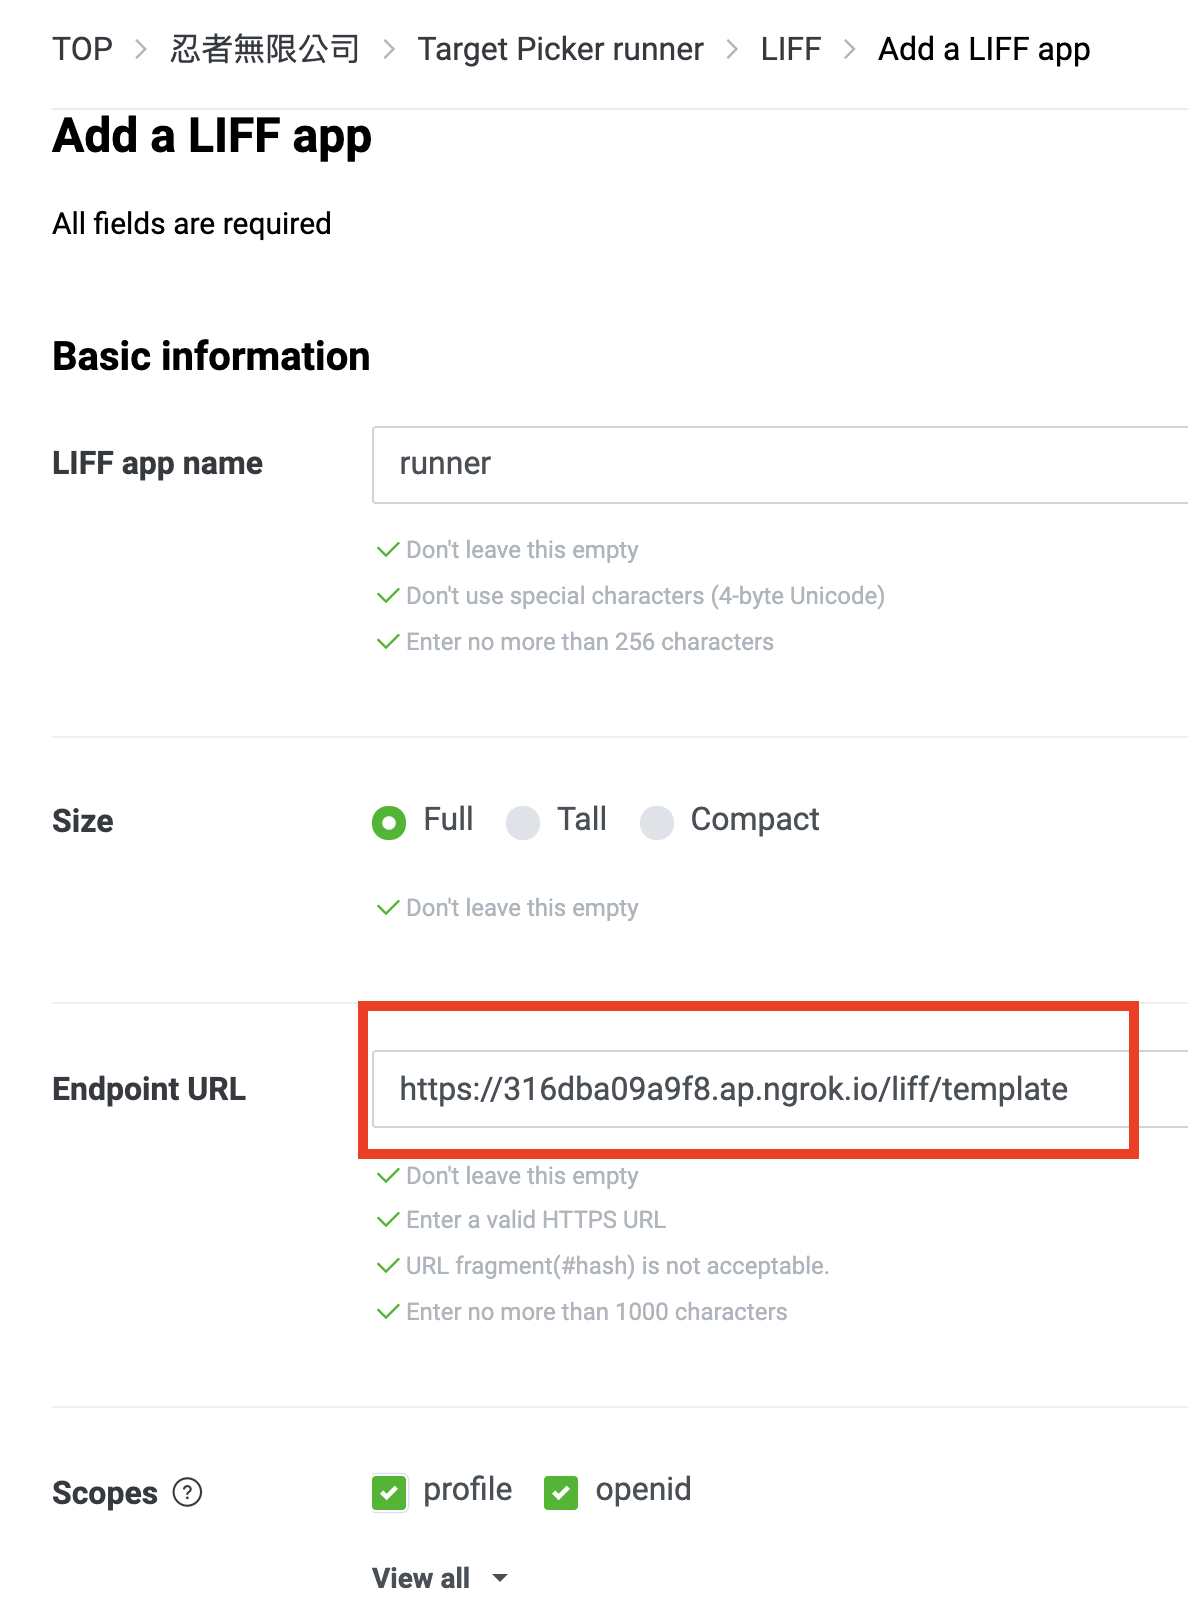
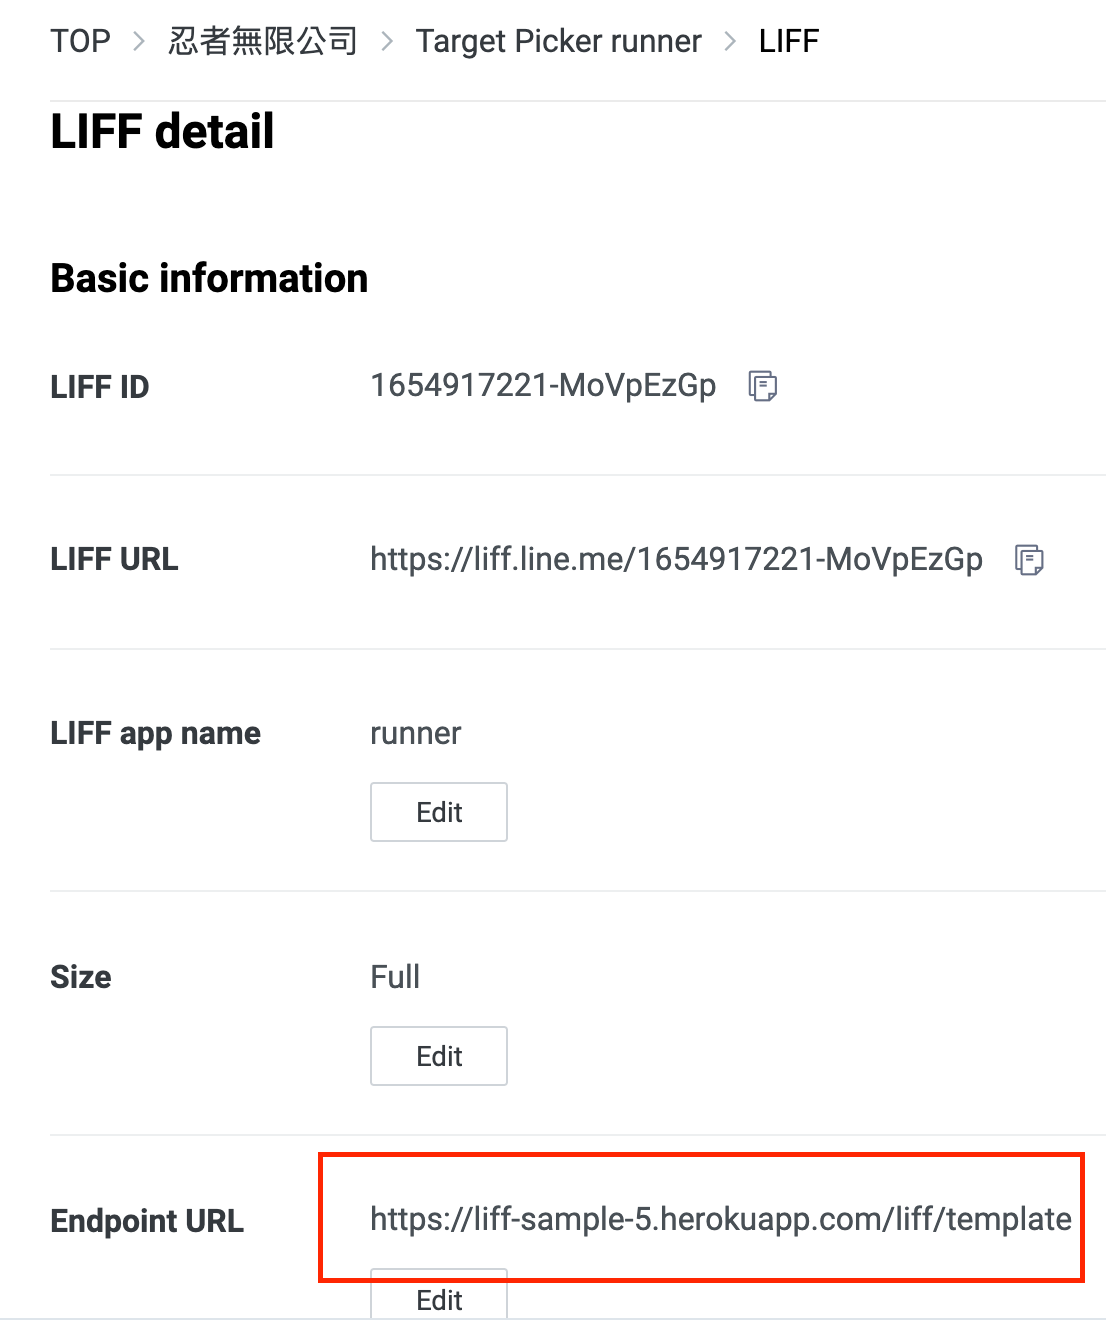
deploy

diff --git a/source/_posts/how-to-use-liff-in-vue3.md b/source/_posts/how-to-use-liff-in-vue3.md
@@ -229,35 +229,25 @@ app.listen(port);
 console.log("server started " + port);
 ```
 
-## 使用 Ngrok 建立一個含有 SSL 的暫時性網址
+接著使用下 heroku cli 來建立一個服務，`-a` 後面接著服務的名稱
 
-這邊使用 `npx` 來啟動 ngrok 的服務，避免安裝於全域污染環境(更多的使用方式[參考 npm](https://www.npmjs.com/package/npx)) ⬇
-
-```
-npx ngrok http --region ap --host-header=rewrite 8080
+```sh
+heroku create -a <your-service>
 ```
 
-![ngrok](https://nijialin.com/images/ngrok.png)
-
-- Vue 預設輸出的 port 為 8080
-- `--region`: 換個區域增加測試時的穩定性
-- `--host-header=rewrite`:本地端測試時必須複寫 header，否則將能遇到 `Invalid Host Header` 的問題
-  - 參考[ stackoverflow ](https://stackoverflow.com/questions/45425721/invalid-host-header-when-ngrok-tries-to-connect-to-react-dev-server)上的解答：
-
-兩種使用方法:
-
-```
-ngrok http 8080 -host-header="localhost:8080"
-ngrok http --host-header=rewrite 8080
-```
+![heroku create](https://nijialin.com/images/2020/vue-use-liff/heroku-create.png)
+建立完成後會自動連接剛剛建立的 repository，接著透過 `git push heroku master` 來推到 heroku 上：
+![heroku push 1](https://nijialin.com/images/2020/vue-use-liff/heroku-push-1.png)
+等待一會兒後就完成啦！！並且還附贈一個 Domain 給你。這邊範例的 domain 則是 `https://liff-sample-5.heroku.app/`
+![heroku push 2](https://nijialin.com/images/2020/vue-use-liff/heroku-push-2.png)
 
 到這裡測試環境已經啟動的差不多了，接著就來建立 LINE Login channel：
 ![login channel 1](https://nijialin.com/images/2020/vue-use-liff/login-create-1.png)
 
 選擇完最左邊的 channel 之後並依序填入相關資訊，並選擇 `web app`：
-![login channel 2](https://nijialin.com/images/2020/vue-use-liff/login-create-1.png)
+![login channel 2](https://nijialin.com/images/2020/vue-use-liff/login-create-2.png)
 
-待建立完成之後到 LIFF 的頁籤中新增(`Add`)一個 LIFF page，將剛剛使用 ngrok 建立的網址貼上只 Endpoint Url 輸入框並接著網址輸入`/liff/template`:
+待建立完成之後到 LIFF 的頁籤中新增(`Add`)一個 LIFF page，將剛剛使用 heroku 建立的網址貼上只 Endpoint Url 輸入框並接著網址輸入`/liff/template`:
 ![](https://nijialin.com/images/2020/vue-use-liff/liff-create-1.png)
 
 新增完 LIFF page 後要將 Channel `Published` 以及啟動 `ShareTargetPicker` 按鈕，並將下方的 LIFF url 複製起來貼到瀏覽器上
@@ -312,7 +302,6 @@ if (!liff.isLoggedIn()) {
 # 參考
 
 - [ShareTargetPicker](https://developers.line.biz/en/reference/liff/#share-target-picker)
-- [stackoverflow](https://stackoverflow.com/questions/45425721/invalid-host-header-when-ngrok-tries-to-connect-to-react-dev-server)
 - [FlexMessage](https://developers.line.biz/en/docs/messaging-api/using-flex-messages/)
 - [Simulator](https://developers.line.biz/flex-simulator/)
 - [LIFF v2 API](https://developers.line.biz/en/reference/liff/)
